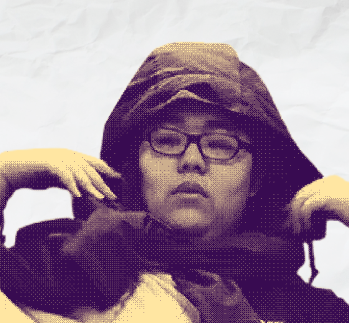
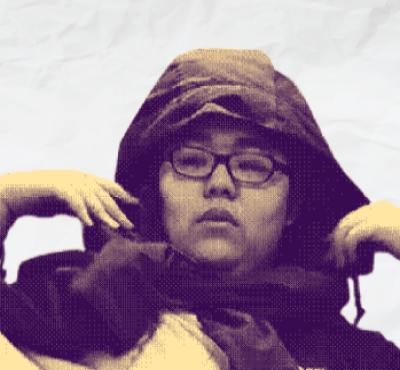
add member img hover fadeInOut

diff --git a/members.html b/members.html
@@ -80,9 +80,10 @@
                 </div>
                 <div class="col-12 col-md members-area-item-image">
                     <div class="image">
-                        <img src="image/membersAni/person1.png" alt="person1" height="auto" width="100%">
+                        <img class="image-ori" src="image/membersAni/person1.png" alt="person1" height="auto" width="100%">
+                        <img class="image-alt" src="image/membersAni/person1_alt.png" alt="person1" height="auto" width="100%">
                     </div>
-                    <img class="image-hand" src="image/membersAni/members_img_hand.png" alt="members_img_hand">
+                    <img class="image-deco__hand" src="image/membersAni/members_img_hand.png" alt="members_img_hand">
                 </div>
             </div>
             <div id="trigger3"></div>
@@ -93,10 +94,12 @@
                     <p class="title text-style-subtitle">YanQi Chen</p>
                 </div>
                 <div class="col-12 col-md members-area-item-image">
+
                     <div class="image">
-                        <img src="image/membersAni/person2.png" alt="person2" height="auto" width="100%">
+                        <img class="image-ori" src="image/membersAni/person2.png" alt="person2" height="auto" width="100%">
+                        <img class="image-alt" src="image/membersAni/person2_alt.png" alt="person2" height="auto" width="100%">
                     </div>
-                    <img class="image-hand" src="image/membersAni/members_img_hand.png" alt="members_img_hand">
+                    <img class="image-deco__hand" src="image/membersAni/members_img_hand.png" alt="members_img_hand">
                 </div>
             </div>
             <div id="trigger4"></div>
@@ -107,10 +110,12 @@
                     <p class="title text-style-subtitle">CJ Chang</p>
                 </div>
                 <div class="col-12 col-md members-area-item-image">
+
                     <div class="image">
-                        <img src="image/membersAni/person3.png" alt="person3" height="auto" width="100%">
+                        <img class="image-ori" src="image/membersAni/person3.png" alt="person3" height="auto" width="100%">
+                        <img class="image-alt" src="image/membersAni/person3_alt.png" alt="person3" height="auto" width="100%">
                     </div>
-                    <img class="image-hand" src="image/membersAni/members_img_hand.png" alt="members_img_hand">
+                    <img class="image-deco__hand" src="image/membersAni/members_img_hand.png" alt="members_img_hand">
                 </div>
             </div>
         </div>

diff --git a/css/members.css b/css/members.css
@@ -97,15 +97,27 @@
 }
 
 .image {
+    position: relative;
     width: 400px;
-    height: auto;
+    height: 370px;
     border: 10px solid #392A5F;
 }
 
-.image-hand {
+.image-ori {
+    position: absolute;
+    z-index: 1;
+}
+
+.image-alt {
+    position: absolute;
+    z-index: 2;
+}
+
+.image-deco__hand {
     position: absolute;
     right: -10px;
     bottom: -10px;
+    z-index: 3;
 }
 
 .fourDims-area {
@@ -269,9 +281,9 @@
     }
     .image {
         width: 300px;
-        height: auto;
+        height: 277.5px;
     }
-    .image-hand {
+    .image-deco__hand {
         width: 80px;
         height: auto;
     }
@@ -299,9 +311,9 @@
     }
     .image {
         width: 200px;
-        height: auto;
+        height: 185px;
     }
-    .image-hand {
+    .image-deco__hand {
         right: 0;
         bottom: 10px;
         width: 50px;

diff --git a/js/members.js b/js/members.js
@@ -5,6 +5,7 @@ $(".draw-ani-line").css("height", $(".members-area").height());
 var lineHeight = $(".draw-ani-line").height();
 $(".draw-ani-line").css("height", "0px");
 
+
 $(function() {
     scene = new ScrollMagic.Scene({
             triggerElement: "#trigger1",
@@ -72,4 +73,17 @@ $(function() {
         })
         .offset(250)
         .addTo(controller);
+});
+
+$(".image").each(function() {
+    $(jQuery(this).children(".image-alt")).fadeOut(0);
+    $(this).hover(
+        function() {
+            $(jQuery(this).children(".image-ori")).fadeOut(500);
+            $(jQuery(this).children(".image-alt")).fadeIn(500);
+        },
+        function() {
+            $(jQuery(this).children(".image-ori")).fadeIn(500);
+            $(jQuery(this).children(".image-alt")).fadeOut(500);
+        })
 });
